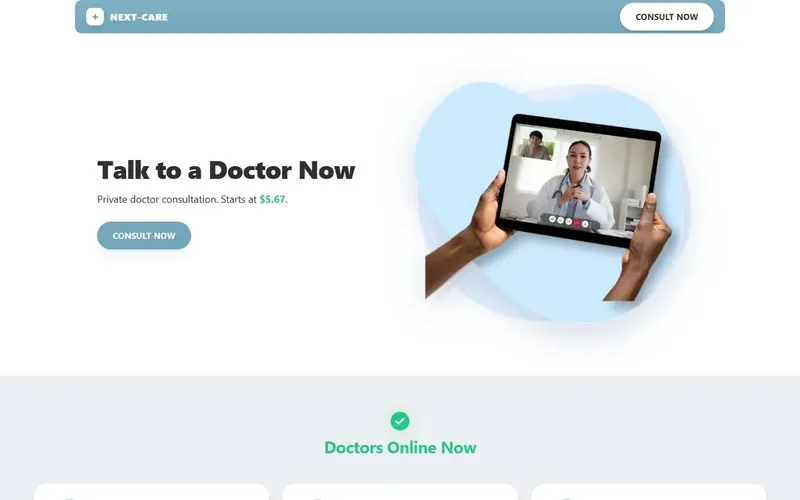
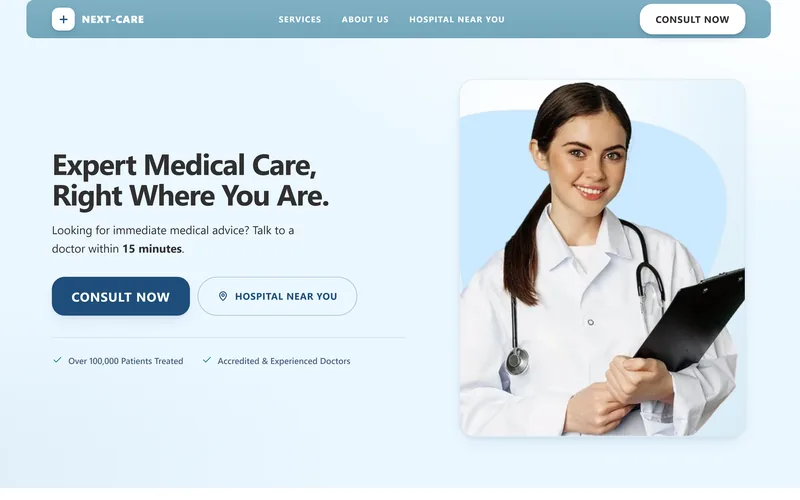
feat: name wordmark, signature footer, NEXT-CARE landing preview and floating back-to-top
- Navbar: replace the AT monogram with a two-tone "Angelo Torrevillas" wordmark
- Hero: drop the repeated self-introduction; lede opens with "I connect the tools..."
- NEXT-CARE card: preview now shows the landing page (cropped from the approved
  capture) and the description discloses it is a fictional clinic
- Footer: minimal signature (name, "AI Automation Specialist · Computer Engineer")
  with Email, LinkedIn, GitHub, Facebook and TikTok links; hover-only accent line
- Back-to-top: fixed floating button revealed after the hero, hidden while the
  booking calendar is on screen, reduced-motion aware; remove id="top" from the
  sticky header so every #top link scrolls to the real page top

diff --git a/css/site.css b/css/site.css
@@ -184,8 +184,11 @@ p + p { margin-top: var(--s4); }
 .site-header.is-scrolled { border-bottom-color: var(--line); }
 @media (prefers-reduced-transparency: reduce) { .site-header { background: var(--bg); -webkit-backdrop-filter: none; backdrop-filter: none; } }
 .nav { position: relative; display: flex; align-items: center; justify-content: space-between; gap: var(--s4); min-height: 4rem; }
-.brand { display: inline-flex; align-items: center; gap: var(--s3); font-weight: 650; letter-spacing: -0.015em; text-decoration: none; font-size: 1rem; min-height: 44px; }
-.brand-mark { width: 1.75rem; height: 1.75rem; border-radius: 7px; flex: none; background: var(--accent); color: #131211; display: grid; place-items: center; font-size: 0.8125rem; font-weight: 700; letter-spacing: -0.02em; }
+.brand { display: inline-flex; align-items: center; gap: 0.3em; font-weight: 650; letter-spacing: -0.015em; text-decoration: none; font-size: 1rem; min-height: 44px; white-space: nowrap; color: var(--text); }
+/* Two-tone name (navbar + footer): first name in the accent, surname in the text colour.
+   Light theme uses the deeper coral, as .hero-accent does, so small text keeps AA contrast. */
+.brand-first { color: var(--accent); }
+:root[data-theme="light"] .brand-first { color: var(--btn-bg); }
 .nav-right { display: flex; align-items: center; gap: var(--s2); }
 .nav-links { display: flex; align-items: center; gap: var(--s1); }
 .nav-links a { display: inline-flex; align-items: center; min-height: 44px; padding: 0 var(--s3); font-size: var(--fs-ui); color: var(--muted); text-decoration: none; border-radius: var(--r-sm); transition: color var(--t-hover) var(--ease); }
@@ -621,17 +624,47 @@ details[open] > summary .sum-icon { transform: rotate(45deg); }
 .booking-frame iframe { display: block; width: 100%; height: 860px; border: 0; background: #fff; }
 
 /* ---------- Footer ---------- */
-.site-footer { padding-block: var(--s12) var(--s8); border-top: 1px solid var(--line); background: var(--bg-band); font-size: var(--fs-body-sm); color: var(--muted); }
-.footer-top { display: grid; gap: var(--s10); grid-template-columns: 1fr; padding-bottom: var(--s10); border-bottom: 1px solid var(--line); }
-@media (min-width: 48rem) { .footer-top { grid-template-columns: minmax(0, 1.2fr) minmax(0, 1fr); } }
-.footer-brand .brand { color: var(--text); }
-.footer-brand p { margin-top: var(--s3); max-width: 26rem; line-height: 1.55; }
-.footer-nav { display: grid; grid-template-columns: repeat(2, minmax(0, 1fr)); gap: var(--s6); }
-.footer-nav h2 { font-size: var(--fs-caption); letter-spacing: 0.1em; text-transform: uppercase; font-weight: 650; color: var(--text); margin-bottom: var(--s2); line-height: 1.4; }
-.footer-nav a, .footer-bottom a { display: inline-flex; align-items: center; gap: var(--s2); min-height: 44px; text-decoration: none; transition: color var(--t-hover) var(--ease); }
-.footer-nav a:hover, .footer-bottom a:hover { color: var(--text); }
-.footer-bottom { display: flex; flex-wrap: wrap; justify-content: space-between; align-items: center; gap: var(--s2) var(--s6); padding-top: var(--s4); }
-.footer-bottom svg { width: 1em; height: 1em; }
+/* A signature, not a section: two-tone name and role on one side, plain text links on the other. */
+.site-footer { padding-block: var(--s10) var(--s6); border-top: 1px solid var(--line); background: var(--bg-band); font-size: var(--fs-body-sm); color: var(--muted); }
+.footer-sign { display: flex; flex-wrap: wrap; align-items: center; justify-content: space-between; gap: var(--s5) var(--s8); padding-bottom: var(--s8); border-bottom: 1px solid var(--line); }
+.footer-name { font-size: clamp(1.375rem, 1.2rem + 0.8vw, 1.75rem); line-height: 1.2; letter-spacing: -0.025em; font-weight: 650; color: var(--text); }
+.footer-role { margin-top: var(--s2); line-height: 1.5; }
+.footer-social { display: flex; flex-wrap: wrap; gap: 0 var(--s5); margin-inline: calc(-1 * var(--s1)); }
+.footer-social a {
+  position: relative; display: inline-flex; align-items: center; min-height: 44px; padding-inline: var(--s1);
+  font-weight: 550; color: var(--muted); text-decoration: none;
+  transition: color var(--t-hover) var(--ease), transform 200ms var(--ease);
+}
+/* Accent hairline that draws in on hover/focus only — never a resting underline */
+.footer-social a::after {
+  content: ""; position: absolute; left: var(--s1); right: var(--s1); bottom: 0.6rem; height: 1px;
+  background: currentColor; transform: scaleX(0); transform-origin: left; transition: transform 220ms var(--ease);
+}
+.footer-social a:hover, .footer-social a:focus-visible { color: var(--accent-text); transform: translateY(-2px); }
+.footer-social a:hover::after, .footer-social a:focus-visible::after { transform: scaleX(1); }
+.footer-legal { padding-top: var(--s5); padding-right: calc(46px + var(--s4)); font-size: var(--fs-caption); }   /* clear of the back-to-top button at the page end */
+
+/* Back-to-top: fixed, bottom-right, revealed after the hero (js/site.js). Hidden while the
+   booking calendar is on screen so it never sits over the widget's controls. */
+.to-top {
+  position: fixed; z-index: 45;
+  right: max(var(--gutter), env(safe-area-inset-right));
+  bottom: max(var(--s5), calc(env(safe-area-inset-bottom) + var(--s3)));
+  display: grid; place-items: center; width: 46px; height: 46px;
+  border: 1px solid var(--line-strong); border-radius: var(--r-lg);
+  background: color-mix(in srgb, var(--surface) 92%, transparent); color: var(--text);
+  -webkit-backdrop-filter: blur(10px); backdrop-filter: blur(10px);
+  box-shadow: 0 10px 28px -12px rgb(0 0 0 / 0.5);
+  text-decoration: none; -webkit-tap-highlight-color: transparent; touch-action: manipulation;
+  transition: opacity 200ms var(--ease), transform 240ms var(--ease-spring), visibility 0s, border-color var(--t-hover) var(--ease), color var(--t-hover) var(--ease);
+}
+:root[data-theme="light"] .to-top { box-shadow: 0 10px 24px -14px rgb(31 29 27 / 0.35); }
+.to-top svg { width: 20px; height: 20px; transition: transform 200ms var(--ease); }
+.to-top:hover { border-color: color-mix(in srgb, var(--accent) 70%, var(--line-strong)); color: var(--accent-text); }
+.to-top:hover svg { transform: translateY(-2px); }
+.to-top:active { transform: scale(0.94); }
+.js .to-top:not(.is-visible) { opacity: 0; visibility: hidden; transform: translateY(10px); transition: opacity 200ms var(--ease), transform 200ms var(--ease), visibility 0s linear 200ms; }
+@media (prefers-reduced-transparency: reduce) { .to-top { background: var(--surface); -webkit-backdrop-filter: none; backdrop-filter: none; } }
 
 /* ---------- Reveal: content stays visible unless JS opts in ---------- */
 @media (prefers-reduced-motion: no-preference) {
@@ -643,10 +676,11 @@ details[open] > summary .sum-icon { transform: rotate(45deg); }
   .btn:active, .icon-btn:active, .filter:active { transform: none; }
   .card-more span { transition: none; }
   .sum-icon, .js .nav-links { transition-duration: 1ms !important; }
+  .footer-social a:hover, .footer-social a:focus-visible, .to-top:active, .to-top:hover svg, .js .to-top:not(.is-visible) { transform: none; }
 }
 
 @media print {
-  .site-header, .booking, .nav-toggle, .skip-link, .filters, .show-more { display: none; }
+  .site-header, .booking, .nav-toggle, .skip-link, .filters, .show-more, .to-top { display: none; }
   .js .case-library { display: block; }
   .card[hidden] { display: flex; }
 }

diff --git a/index.html b/index.html
@@ -95,12 +95,11 @@
 <body>
 <a class="skip-link" href="#main">Skip to content</a>
 
-<header class="site-header" id="top">
+<header class="site-header">
   <div class="wrap">
     <nav class="nav" aria-label="Primary">
       <a class="brand" href="#top" aria-label="Angelo Torrevillas — back to top">
-        <span class="brand-mark" aria-hidden="true">AT</span>
-        <span>Angelo Torrevillas</span>
+        <span class="brand-first">Angelo</span> Torrevillas
       </a>
       <div class="nav-right">
         <div class="nav-links" id="nav-links">
@@ -131,7 +130,7 @@
       <div>
         <p class="eyebrow">What I can automate for your business</p>
         <h1 class="display" id="hero-title"><span class="hero-line">Stop repeating tasks.</span> <span class="hero-line">Start <em class="hero-accent">automating.</em></span></h1>
-        <p class="lede">I'm Angelo Torrevillas, an AI automation specialist. I connect the tools your business runs on — CRM, payments, documents, email and chat — into reliable automated workflows, with AI where it helps and a person approving anything costly.</p>
+        <p class="lede">I connect the tools your business runs on — CRM, payments, documents, email and chat — into reliable automated workflows, with AI where it helps and a person approving anything costly.</p>
         <div class="hero-actions">
           <a class="btn btn-primary" href="#book">Book a call</a>
           <a class="btn btn-ghost" href="#work">See the systems
@@ -239,11 +238,11 @@
           </div>
         </article>
         <article class="card" data-reveal>
-          <div class="card-media"><img src="assets/images/projects/next-care/card.webp" width="800" height="500" loading="lazy" decoding="async" alt="NEXT-CARE Talk to a Doctor page with consultation price and Consult Now button."></div>
+          <div class="card-media"><img src="assets/images/projects/next-care/card.webp" width="800" height="500" loading="lazy" decoding="async" alt="NEXT-CARE landing page for a fictional clinic: headline 'Expert Medical Care, Right Where You Are', with Consult Now and Hospital Near You buttons."></div>
           <div class="card-body">
             <div class="card-meta"><span class="card-cat">Healthcare funnel &amp; payments</span><span class="chip dev">In development · Sandbox</span></div>
             <h3><a href="#case-nc" data-case="case-nc">NEXT-CARE Medical Clinic System</a></h3>
-            <p class="card-desc">A paid consultation funnel where access is released only after a signed payment webhook is verified against the database.</p>
+            <p class="card-desc">Designed as a fictional medical clinic: one connected patient journey, from doctor discovery to consultation payment.</p>
             <ul class="pills" aria-label="Stack"><li>GoHighLevel</li><li>n8n</li><li>PostgreSQL</li><li>PayMongo</li></ul>
             <div class="card-foot"><p class="card-more" aria-hidden="true">Case study <span>→</span></p><a class="card-visit" href="https://links.levelupservices.cc/preview/jZfMP8kA15QSNXfX2ZdX?notrack=true" target="_blank" rel="noopener">Visit demo site <svg viewBox="0 0 16 16" aria-hidden="true"><path d="M6 3.5H3.5v9h9V10M9 3.5h3.5V7M12.5 3.5 7 9" fill="none" stroke="currentColor" stroke-width="1.5" stroke-linecap="round" stroke-linejoin="round"/></svg><span class="visually-hidden"> (fictional clinic, opens in a new tab)</span></a></div>
           </div>
@@ -1135,27 +1134,28 @@
 
 <footer class="site-footer">
   <div class="wrap">
-    <div class="footer-top">
-      <div class="footer-brand">
-        <a class="brand" href="#top"><span class="brand-mark" aria-hidden="true">AT</span><span>Angelo Torrevillas</span></a>
-        <p>AI automation specialist in the Philippines. Workflow automation, business integrations and AI — built with the checks that keep them reliable.</p>
+    <div class="footer-sign">
+      <div>
+        <p class="footer-name"><span class="brand-first">Angelo</span> Torrevillas</p>
+        <p class="footer-role">AI Automation Specialist · Computer Engineer</p>
       </div>
-      <nav class="footer-nav" aria-label="Footer">
-        <div>
-          <h2>Site</h2>
-          <ul><li><a href="#work">Work</a></li><li><a href="#stack">Stack</a></li><li><a href="#approach">Approach</a></li><li><a href="#about">About</a></li><li><a href="#faq">FAQ</a></li></ul>
-        </div>
-        <div>
-          <h2>Connect</h2>
-          <ul><li><a href="#book">Book a call</a></li><li><a href="mailto:angelo.automates@gmail.com">Email</a></li><li><a href="https://www.linkedin.com/in/angelo-ai-automation" rel="me noopener" target="_blank">LinkedIn</a></li><li><a href="https://github.com/yowlshi" rel="me noopener" target="_blank">GitHub</a></li></ul>
-        </div>
+      <nav aria-label="Contact and social">
+        <ul class="footer-social">
+          <li><a href="mailto:angelo.automates@gmail.com">Email</a></li>
+          <li><a href="https://www.linkedin.com/in/angelo-ai-automation" rel="me noopener" target="_blank">LinkedIn</a></li>
+          <li><a href="https://github.com/yowlshi" rel="me noopener" target="_blank">GitHub</a></li>
+          <li><a href="https://www.facebook.com/the1andYowli" rel="me noopener" target="_blank">Facebook</a></li>
+          <li><a href="https://www.tiktok.com/@angelolearns.automation" rel="me noopener" target="_blank">TikTok</a></li>
+        </ul>
       </nav>
     </div>
-    <div class="footer-bottom">
-      <p>© 2026 Angelo Torrevillas · AI Automation Specialist</p>
-      <a href="#top">Back to top <svg viewBox="0 0 16 16" aria-hidden="true"><path d="M8 13V3M3.5 7.5 8 3l4.5 4.5" fill="none" stroke="currentColor" stroke-width="1.6" stroke-linecap="round" stroke-linejoin="round"/></svg></a>
-    </div>
+    <p class="footer-legal">© 2026 Angelo Torrevillas · AI Automation Specialist</p>
   </div>
 </footer>
+
+<!-- Fixed to the viewport; shown once the hero has scrolled away (js/site.js). Without JS, "#top" still scrolls home natively. -->
+<a class="to-top" href="#top" aria-label="Back to top">
+  <svg viewBox="0 0 20 20" aria-hidden="true"><path d="M10 16V4.5M4.75 9.5 10 4.25l5.25 5.25" fill="none" stroke="currentColor" stroke-width="1.8" stroke-linecap="round" stroke-linejoin="round"/></svg>
+</a>
 </body>
 </html>

diff --git a/js/site.js b/js/site.js
@@ -83,6 +83,24 @@
   document.body.prepend(sentinel);
   new IntersectionObserver(([e]) => header.classList.toggle('is-scrolled', !e.isIntersecting)).observe(sentinel);
 
+  // Back-to-top: shown once the hero is fully above the viewport, hidden again at the top and
+  // while the booking calendar is on screen (so it never covers the widget). Observers, no scroll listener.
+  const toTop = document.querySelector('.to-top');
+  const hero = document.querySelector('.hero');
+  if (toTop && hero) {
+    let pastHero = false, overBooking = false;
+    const sync = () => toTop.classList.toggle('is-visible', pastHero && !overBooking);
+    new IntersectionObserver(([e]) => { pastHero = !e.isIntersecting && e.boundingClientRect.top < 0; sync(); }).observe(hero);
+    const booking = document.querySelector('.booking');
+    if (booking) new IntersectionObserver(([e]) => { overBooking = e.isIntersecting; sync(); }).observe(booking);
+    const reduceMotion = window.matchMedia('(prefers-reduced-motion: reduce)');
+    toTop.addEventListener('click', e => {
+      e.preventDefault();
+      window.scrollTo({ top: 0, behavior: reduceMotion.matches ? 'auto' : 'smooth' });
+      header.querySelector('.brand').focus({ preventScroll: true });   // keep keyboard focus at the top, not on the now-hidden button
+    });
+  }
+
   // One-time reveals
   const reveals = document.querySelectorAll('[data-reveal]');
   const io = new IntersectionObserver(entries => {
